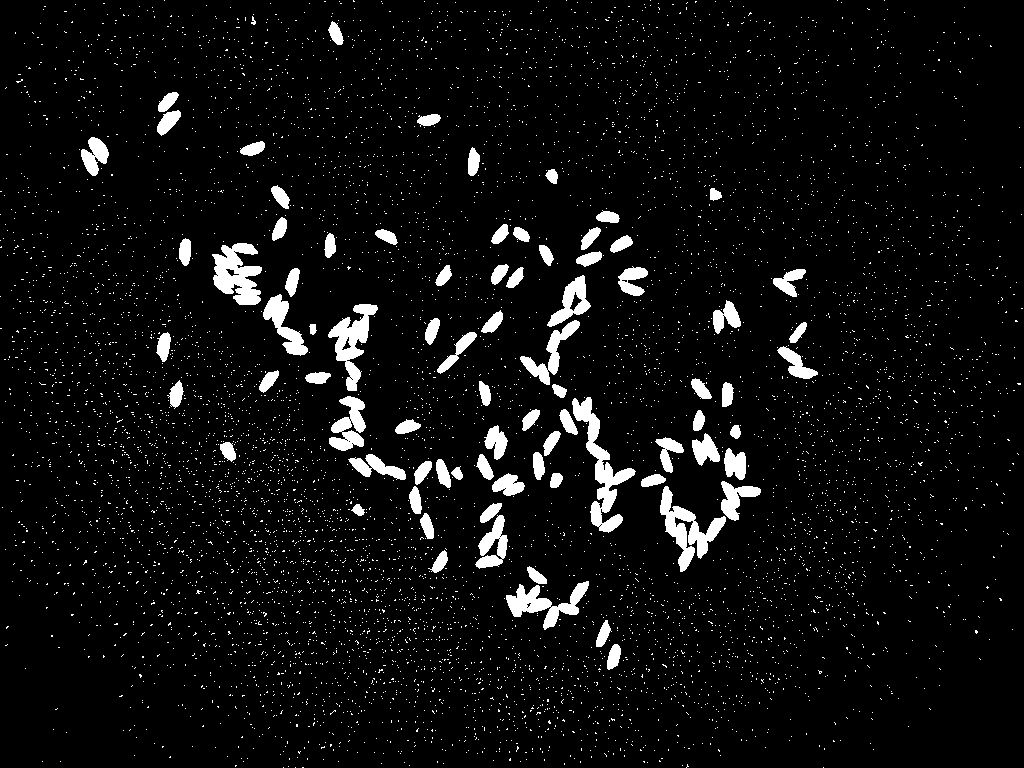
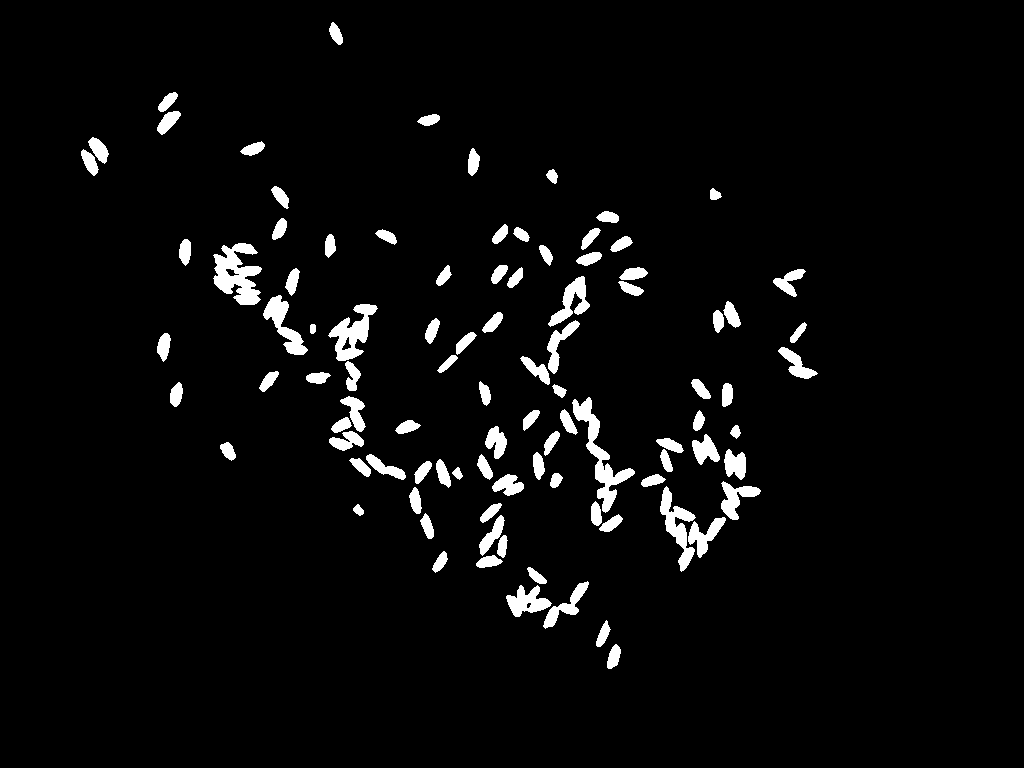
Realiza uma média mais eficiente e aplica morfologia para aumentar a eficiência do algoritmo

diff --git a/pdi/Trab4/main.py b/pdi/Trab4/main.py
@@ -64,7 +64,7 @@ def limiarizacao_adaptativa(img):
 def check_bordas(img, row, col):
     return row < img.shape[0] and row >= 0 and col < img.shape[1] and col >= 0
 
-def rotula (img, largura_min, altura_min, n_pixels_min):
+def rotula(img, largura_min, altura_min, n_pixels_min):
     result = []
     label = 2.0
     
@@ -78,6 +78,7 @@ def rotula (img, largura_min, altura_min, n_pixels_min):
                 blob, img = inunda(blob, img, row, col)
                 blob = {
                     'label': label,
+                    'pixels' : blob['pixels'],
                     'n_pixels': len(blob['pixels']),
                     'T': min(blob['pixels'], key=lambda x:x['row'])['row'],
                     'L': min(blob['pixels'], key=lambda x:x['col'])['col'],
@@ -89,7 +90,7 @@ def rotula (img, largura_min, altura_min, n_pixels_min):
                 label += 1.0         
     return result
 
-def inunda (blob, img, row, col):
+def inunda(blob, img, row, col):
     label = blob['label']
     stack = []
     stack.append((row, col))
@@ -118,20 +119,38 @@ def range_permitido(img, row, col):
 def trata_superblob(superblob, media):
     return round(superblob['n_pixels'] / media)
 
-def calcula_total_arroz(componentes):
+# Cálcula a média de valores excluindo outliers (valores acima ou a baixo de 1.5 desvios padrões da média)
+def media_sem_outliers(valores : list):
+    valores.sort()
+    media = np.mean(valores)
+    std = np.std(valores)
+    while len(valores) > 0:
+        if valores[0] < media - 1.5 * std:
+            valores.remove(valores[0])
+        else:
+            break
+    while len(valores) > 0:
+        if valores[-1] > media + 1.5 * std:
+            valores.remove(valores[-1])
+        else:
+            break
+    return np.mean(valores)
+
+def calcula_total_arroz(componentes, img):
     superblobs = []
     superblobscount = -1
 
+    # Iterativamente, busca blobs muito fora da média
     while len(superblobs) != superblobscount:
         tamanhos = [c['n_pixels'] for c in componentes]
-        media = np.mean(tamanhos)
+        media = media_sem_outliers(tamanhos)
         superblobscount = len(superblobs)
         i = 0
         while i < len(componentes):
             blob = componentes[i]
             tam = blob['n_pixels']
             n = tam / media
-            if round(n) >= 2.0:
+            if n >= 1.5:
                 superblobs.append(blob)
                 componentes.remove(blob)
             else:
@@ -140,12 +159,17 @@ def calcula_total_arroz(componentes):
     total_arroz = len(componentes)
     print(superblobscount, "super componentes detectados.")
     
+    for c in componentes:
+        cv2.rectangle(img, (c ['L'], c ['T']), (c ['R'], c ['B']), (0,0,1))
+    
+    # Trata Superblobs
     for superblob in superblobs:
-        total_arroz += trata_superblob(superblob, media)
+        N = trata_superblob(superblob, media)
+        cv2.rectangle (img, (superblob['L'], superblob['T']), (superblob['R'], superblob['B']), (1,0,0))
+        cv2.putText(img, str(N), (superblob['L'] - 2, superblob['T'] - 2), cv2.FONT_HERSHEY_SIMPLEX, 0.5, (0, 255, 0), 1, cv2.LINE_AA)
+        total_arroz += N
 
     return total_arroz
-
-
 
 #===============================================================================
 
@@ -161,40 +185,47 @@ def main ():
         img = cv2.imread (input_image + '.bmp')
         if img is None:
             print ('Erro abrindo a imagem.\n')
-            sys.exit ()
+            sys.exit()
 
         # É uma boa prática manter o shape com 3 valores, independente da imagem ser
         # 0ida ou não. Também já convertemos para float32.
         img = img.reshape ((img.shape [0], img.shape [1], img.shape [2]))
         img = img.astype (np.float32) / 255
 
+        # Binariza com limiarizacao_adaptativa
         gray_scale = cv2.cvtColor(img, cv2.COLOR_BGR2GRAY)
         start_time = timeit.default_timer()
         binarizada = limiarizacao_adaptativa(gray_scale)
-        print ('Tempo: %f' % (timeit.default_timer () - start_time))
-        cv2.imwrite (f'binarizada_{input_image}.png', binarizada*255)
+
+        # Utiliza morfologia para remover ruído e separar alguns blobs
+        kernel = np.ones((3,3),np.uint8)
+        erosion = cv2.erode(binarizada,kernel,iterations = 1)
+        kernel[0][0] = 0
+        kernel[2][2] = 0
+        kernel[0][2] = 0
+        kernel[2][0] = 0
+        dilation = cv2.dilate(erosion,kernel,iterations = 1)
+        
+        print('Tempo: %f' % (timeit.default_timer () - start_time))
+        cv2.imwrite (f'binarizada_{input_image}.png', dilation*255)
         print(f'binarizada {input_image}.bmp done')
-
+        
+        # Rotula Componentes
         start_time = timeit.default_timer ()
-        componentes = rotula(binarizada, LARGURA_MIN, ALTURA_MIN, N_PIXELS_MIN)
+        componentes = rotula(dilation, LARGURA_MIN, ALTURA_MIN, N_PIXELS_MIN)
         n_componentes = len(componentes)
-        print ('Tempo: %f' % (timeit.default_timer () - start_time))
-        print ('%d componentes detectados.' % n_componentes)
+        print('Tempo: %f' % (timeit.default_timer () - start_time))
+        print('%d componentes detectados.' % n_componentes)
 
-        # Mostra os objetos encontrados.
-        for c in componentes:
-            cv2.rectangle (img, (c ['L'], c ['T']), (c ['R'], c ['B']), (0,0,1))
-
-        cv2.imwrite (f'arroz_{input_image}.png', img*255)
-        print(f'arroz {input_image}.bmp done')
-
-        total = calcula_total_arroz(componentes)
+        # Calcula grãos de arroz por componente
+        total = calcula_total_arroz(componentes, img)
+        cv2.imwrite(f'arroz_{input_image}.png', img*255)
         print(f'O total de arroz da imagem {input_image}.bmp é {total}!\n')
 
-        cv2.waitKey ()
-        cv2.destroyAllWindows ()
+        cv2.waitKey()
+        cv2.destroyAllWindows()
 
 if __name__ == '__main__':
-    main ()
+    main()
 
 #===============================================================================
